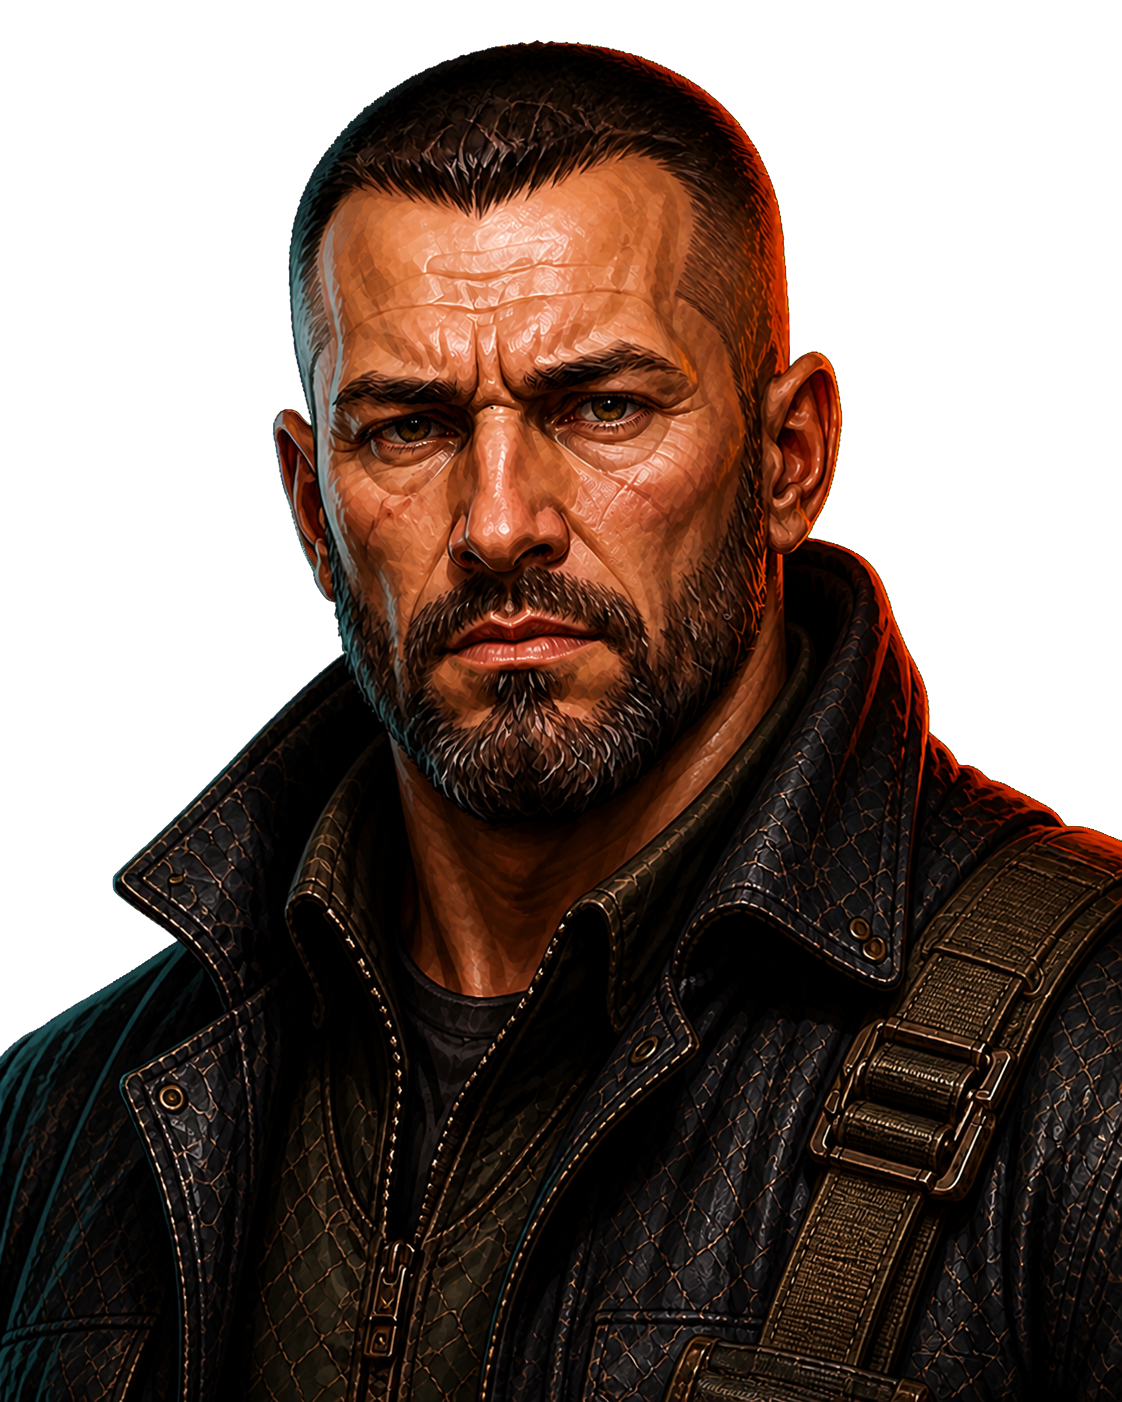
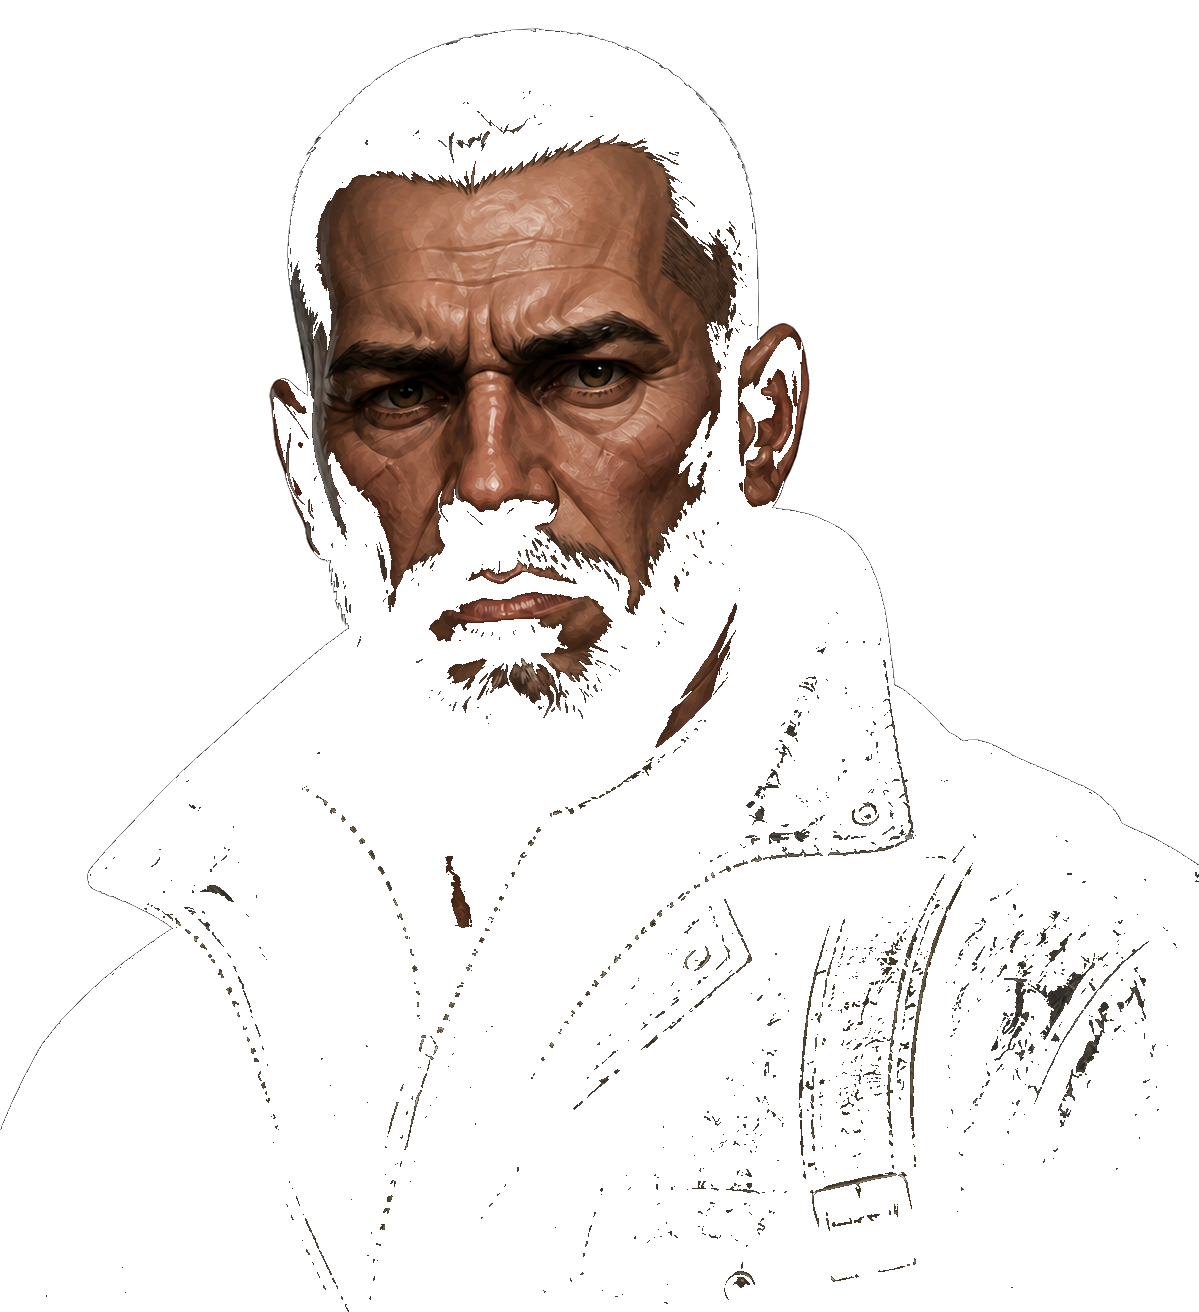
Restore stamp animation and redraw Radan

diff --git a/reference/reference-bridge.js b/reference/reference-bridge.js
@@ -40,6 +40,8 @@
     review: "#c8a25f",
   };
 
+  let stampMotionTimer = null;
+
   function host() {
     try {
       return window.parent !== window ? window.parent.RedStampHost : null;
@@ -53,7 +55,83 @@
   }
 
   function dispatch(action, value) {
-    return host()?.dispatch?.(action, value);
+    const result = host()?.dispatch?.(action, value);
+    if (action === "admit" && result !== false) triggerStampMotion();
+    return result;
+  }
+
+  function ensureStampMotionStyle() {
+    if (document.querySelector("#reference-stamp-motion-style")) return;
+    const style = document.createElement("style");
+    style.id = "reference-stamp-motion-style";
+    style.textContent = `
+      #reference-stamp-motion{position:fixed;inset:0;z-index:90;overflow:hidden;pointer-events:none}
+      #reference-stamp-motion [data-stamp-flash]{position:absolute;inset:0;background:radial-gradient(circle at var(--stamp-x) var(--stamp-y),rgba(223,66,44,.28),rgba(223,66,44,0) 23%);opacity:0}
+      #reference-stamp-motion [data-stamp-paper]{position:absolute;left:var(--stamp-x);top:var(--stamp-y);width:min(300px,44vw);height:min(132px,17vh);border:1px solid rgba(226,190,133,.8);background:linear-gradient(135deg,rgba(247,224,174,.98),rgba(166,126,83,.98));box-shadow:0 16px 32px rgba(0,0,0,.76),inset 0 0 0 4px rgba(109,44,31,.13);color:#5c2b25;opacity:0;transform:translate(-50%,-50%) rotate(-8deg) scale(.52);transform-origin:50% 50%}
+      #reference-stamp-motion [data-stamp-paper]::before{position:absolute;inset:9px;border:1px solid rgba(112,49,37,.42);content:""}
+      #reference-stamp-motion [data-stamp-paper]::after{position:absolute;right:12px;bottom:13px;width:34px;height:34px;border:2px solid rgba(142,31,28,.62);border-radius:50%;content:"V";font:700 21px/30px Georgia,serif;text-align:center;transform:rotate(-12deg)}
+      #reference-stamp-motion [data-stamp-paper-title]{position:absolute;top:18px;left:20px;font:700 12px/1 'IBM Plex Mono',monospace;letter-spacing:.16em}
+      #reference-stamp-motion [data-stamp-paper-lines]{position:absolute;top:45px;left:20px;width:54%;height:28px;background:repeating-linear-gradient(to bottom,rgba(76,47,37,.52) 0 1px,transparent 1px 7px)}
+      #reference-stamp-motion [data-stamp-art]{position:absolute;left:calc(var(--stamp-x) + min(26px,3vw));top:calc(var(--stamp-y) - min(8px,1vh));width:clamp(92px,11vw,148px);height:auto;opacity:0;filter:drop-shadow(0 12px 9px rgba(0,0,0,.74));transform:translate(-50%,-80%) rotate(11deg) scale(.68);transform-origin:50% 92%}
+      #reference-stamp-motion [data-stamp-ink]{position:absolute;left:var(--stamp-x);top:var(--stamp-y);padding:7px 12px;border:3px solid rgba(143,31,28,.78);color:rgba(143,31,28,.78);font:700 clamp(13px,1.6vw,21px)/1 'Staatliches',sans-serif;letter-spacing:.12em;opacity:0;transform:translate(-50%,-50%) rotate(-7deg) scale(.25,.42);filter:blur(.2px)}
+      #reference-stamp-motion.reference-stamp-motion-active [data-stamp-flash]{animation:reference-stamp-flash 900ms ease-out both}
+      #reference-stamp-motion.reference-stamp-motion-active [data-stamp-paper]{animation:reference-stamp-paper 900ms cubic-bezier(.18,.82,.26,1) both}
+      #reference-stamp-motion.reference-stamp-motion-active [data-stamp-art]{animation:reference-stamp-slam 900ms cubic-bezier(.16,.78,.24,1) both}
+      #reference-stamp-motion.reference-stamp-motion-active [data-stamp-ink]{animation:reference-stamp-ink 900ms cubic-bezier(.19,.8,.28,1) both}
+      [data-ref-action="admit"].reference-stamp-action{animation:reference-stamp-button 900ms ease-out both}
+      @keyframes reference-stamp-flash{0%,100%{opacity:0}24%{opacity:1}58%{opacity:.16}}
+      @keyframes reference-stamp-paper{0%{opacity:0;transform:translate(-50%,18%) rotate(-12deg) scale(.52)}22%{opacity:1;transform:translate(-50%,-44%) rotate(-8deg) scale(.82)}44%,100%{opacity:.94;transform:translate(-50%,-50%) rotate(-4deg) scale(1)}}
+      @keyframes reference-stamp-slam{0%{opacity:0;transform:translate(-50%,-145%) rotate(13deg) scale(.68)}18%{opacity:1;transform:translate(-50%,-104%) rotate(9deg) scale(.76)}38%{opacity:1;transform:translate(-50%,-27%) rotate(-3deg) scale(1.02)}48%{opacity:1;transform:translate(-50%,-18%) rotate(-1deg) scale(.94)}60%{opacity:.9;transform:translate(-50%,-25%) rotate(-2deg) scale(.98)}78%{opacity:.34;transform:translate(-50%,-34%) rotate(0) scale(.92)}100%{opacity:0;transform:translate(-50%,-42%) rotate(1deg) scale(.86)}}
+      @keyframes reference-stamp-ink{0%,30%{opacity:0;transform:translate(-50%,-50%) rotate(-7deg) scale(.25,.42)}43%{opacity:.92;transform:translate(-50%,-50%) rotate(-4deg) scale(1.08,.76)}55%{opacity:.82;transform:translate(-50%,-50%) rotate(-5deg) scale(.98,.84)}100%{opacity:0;transform:translate(-50%,-50%) rotate(-4deg) scale(1,.7)}}
+      @keyframes reference-stamp-button{0%,100%{transform:translateY(0);filter:none}38%{transform:translateY(3px);filter:brightness(1.24)}52%{transform:translateY(0);filter:brightness(1.06)} }
+      @media (prefers-reduced-motion:reduce){#reference-stamp-motion [data-stamp-flash]{animation:none;opacity:.32}#reference-stamp-motion [data-stamp-paper]{animation:none;opacity:.94;transform:translate(-50%,-50%) rotate(-4deg) scale(1)}#reference-stamp-motion [data-stamp-art]{animation:none;opacity:.96;transform:translate(-50%,-25%) rotate(-2deg) scale(.96)}#reference-stamp-motion [data-stamp-ink]{animation:none;opacity:.78;transform:translate(-50%,-50%) rotate(-4deg) scale(1,.7)}[data-ref-action="admit"].reference-stamp-action{animation:none;transform:translateY(0);filter:brightness(1.08)}}
+    `;
+    document.head.append(style);
+  }
+
+  function triggerStampMotion() {
+    const action = document.querySelector('[data-ref-action="admit"]');
+    if (!action) return;
+    ensureStampMotionStyle();
+
+    const rect = action.getBoundingClientRect();
+    let motion = document.querySelector("#reference-stamp-motion");
+    if (!motion) {
+      motion = document.createElement("div");
+      motion.id = "reference-stamp-motion";
+      motion.setAttribute("aria-hidden", "true");
+      motion.innerHTML = `
+        <div data-stamp-flash></div>
+        <div data-stamp-paper>
+          <span data-stamp-paper-title>ENTRY AUTHORIZED</span>
+          <span data-stamp-paper-lines></span>
+        </div>
+        <img data-stamp-art alt="">
+        <div data-stamp-ink>ADMITTED</div>`;
+      document.body.append(motion);
+    }
+
+    motion.style.setProperty("--stamp-x", `${Math.round(rect.left + rect.width * 0.72)}px`);
+    motion.style.setProperty("--stamp-y", `${Math.round(rect.top + rect.height * 0.5)}px`);
+    const stampArt = motion.querySelector("[data-stamp-art]");
+    if (stampArt) {
+      stampArt.src = window.matchMedia?.("(max-width: 700px)").matches
+        ? "assets/23c7730c-fd90-4c8a-86bb-695cb8503df6.webp"
+        : "assets/779ea657-4ce2-498c-a617-9f5eaa498dc3.webp";
+    }
+
+    action.classList.remove("reference-stamp-action");
+    motion.classList.remove("reference-stamp-motion-active");
+    void action.offsetWidth;
+    void motion.offsetWidth;
+    action.classList.add("reference-stamp-action");
+    motion.classList.add("reference-stamp-motion-active");
+    if (stampMotionTimer) window.clearTimeout(stampMotionTimer);
+    stampMotionTimer = window.setTimeout(() => {
+      action.classList.remove("reference-stamp-action");
+      motion.remove();
+      stampMotionTimer = null;
+    }, 980);
   }
 
   function slots(name) {

diff --git a/reference/desktop.html b/reference/desktop.html
@@ -622,15 +622,15 @@ a{color:#c8a25f;text-decoration:none}a:hover{color:#e4c58c}
         <div data-ref-action="admit" style="position:relative;overflow:hidden;border:2px solid #8e1f1c;background:linear-gradient(#7d1f19,#480e0b);display:grid;place-items:center;box-shadow:inset 0 2px 0 rgba(255,190,170,.3),0 5px 0 #290a08;cursor:pointer" style-hover="background:linear-gradient(#9c2620,#5c1512)" style-active="transform:translateY(4px);box-shadow:inset 0 2px 0 rgba(255,190,170,.2),0 1px 0 #290a08">
           <img src="assets/779ea657-4ce2-498c-a617-9f5eaa498dc3.webp" alt="" style="position:absolute;right:-18px;bottom:-22px;height:140%;opacity:.3">
           <div style="position:relative;text-align:center">
-            <div data-ref-action="admit" style="font-family:'Staatliches',sans-serif;font-size:42px;letter-spacing:.1em;color:#f4dfc9;line-height:.95">STAMP</div>
+            <div data-ref-action="admit" style="font-family:'Staatliches',sans-serif;font-size:42px;letter-spacing:.1em;color:#f4dfc9;line-height:.95">RED<br>STAMP</div>
             <div style="font-size:10px;font-weight:600;letter-spacing:.3em;color:#e0b8a6">ADMIT ENTRY</div>
           </div>
         </div>
         <div data-ref-action="secondary" style="border:1px solid #4a3a2c;background:linear-gradient(#241c16,#100c0a);display:grid;place-items:center;text-align:center;box-shadow:inset 0 1px 0 #5c4938,0 5px 0 #0a0806;cursor:pointer" style-hover="border-color:#8a7458">
-          <div><div data-ref-action="secondary" style="font-family:'Staatliches',sans-serif;font-size:24px;letter-spacing:.08em;color:#d2c3a0;line-height:1">SECOND<br>INSPECT</div><div style="font-size:10px;letter-spacing:.22em;color:#8a7458;margin-top:5px">HOLD</div></div>
+          <div><div data-ref-action="secondary" style="font-family:'Staatliches',sans-serif;font-size:24px;letter-spacing:.08em;color:#d2c3a0;line-height:1">SECONDARY<br>INSPECTION</div><div style="font-size:10px;letter-spacing:.22em;color:#8a7458;margin-top:5px">HOLD</div></div>
         </div>
         <div data-ref-action="deny" style="border:1px solid #4a3a2c;background:linear-gradient(#241c16,#100c0a);display:grid;place-items:center;text-align:center;box-shadow:inset 0 1px 0 #5c4938,0 5px 0 #0a0806;cursor:pointer" style-hover="border-color:#8a7458">
-          <div><div data-ref-action="deny" style="font-family:'Staatliches',sans-serif;font-size:24px;letter-spacing:.08em;color:#d2c3a0;line-height:1">REFUSE<br>ENTRY</div><div style="font-size:10px;letter-spacing:.22em;color:#8a7458;margin-top:5px">TURN BACK</div></div>
+          <div><div data-ref-action="deny" style="font-family:'Staatliches',sans-serif;font-size:24px;letter-spacing:.08em;color:#d2c3a0;line-height:1">DENY<br>ENTRY</div><div style="font-size:10px;letter-spacing:.22em;color:#8a7458;margin-top:5px">TURN BACK</div></div>
         </div>
       </div>
     </div>

diff --git a/reference/mobile.html b/reference/mobile.html
@@ -442,15 +442,15 @@ div{scrollbar-width:none}div::-webkit-scrollbar{display:none}
     <div data-ref-action="admit" style="position:relative;overflow:hidden;border:2px solid #8e1f1c;background:linear-gradient(#7d1f19,#480e0b);display:flex;align-items:center;gap:6px;padding:0 8px;box-shadow:inset 0 2px 0 rgba(255,190,170,.28),0 3px 0 #290a08;cursor:pointer" style-active="transform:translateY(2px)">
       <img src="assets/23c7730c-fd90-4c8a-86bb-695cb8503df6.webp" alt="" style="width:34px;height:40px;object-fit:contain;filter:drop-shadow(0 4px 8px rgba(0,0,0,.7))">
       <div>
-        <div data-ref-action="admit" style="font-family:'Staatliches',sans-serif;font-size:20px;letter-spacing:.06em;color:#f4dfc9;line-height:1">STAMP</div>
+        <div data-ref-action="admit" style="font-family:'Staatliches',sans-serif;font-size:20px;letter-spacing:.06em;color:#f4dfc9;line-height:1">RED<br>STAMP</div>
         <div style="font-size:8px;font-weight:600;letter-spacing:.2em;color:#e0b8a6">ADMIT ENTRY</div>
       </div>
     </div>
     <div style="border:1px solid #4a3a2c;background:linear-gradient(#241c16,#100c0a);display:grid;place-items:center;text-align:center;box-shadow:inset 0 1px 0 #5c4938,0 3px 0 #0a0806;cursor:pointer">
-      <div data-ref-action="secondary" style="font-family:'Staatliches',sans-serif;font-size:14px;letter-spacing:.05em;color:#d2c3a0;line-height:1.05">SECOND<br>INSPECT</div>
+      <div data-ref-action="secondary" style="font-family:'Staatliches',sans-serif;font-size:14px;letter-spacing:.05em;color:#d2c3a0;line-height:1.05">SECONDARY<br>INSPECTION</div>
     </div>
     <div style="border:1px solid #4a3a2c;background:linear-gradient(#241c16,#100c0a);display:grid;place-items:center;text-align:center;box-shadow:inset 0 1px 0 #5c4938,0 3px 0 #0a0806;cursor:pointer">
-      <div data-ref-action="deny" style="font-family:'Staatliches',sans-serif;font-size:14px;letter-spacing:.05em;color:#d2c3a0;line-height:1.05">REFUSE<br>ENTRY</div>
+      <div data-ref-action="deny" style="font-family:'Staatliches',sans-serif;font-size:14px;letter-spacing:.05em;color:#d2c3a0;line-height:1.05">DENY<br>ENTRY</div>
     </div>
   </div>
 

diff --git a/app.js b/app.js
@@ -2224,8 +2224,10 @@ const VISITOR_ART = {
 };
 
 // Every named visitor gets an explicit art entry. New character renders use
-// Mara's corrected cutout as the shared style anchor, while each character
-// keeps separate scene, full-body, and document-face assets.
+// the main inspector/Mara rendering as the shared style anchor, while each
+// character keeps separate scene, full-body, and document-face assets. A
+// redraw replaces that complete family together; changing only one view is
+// how a visitor slips back into a different illustration style.
 const CHARACTER_ART = {
   "mara-velen": {
     scene: "assets/generated/mara-visitor-scene.png",

diff --git a/docs/character-asset-checklist.md b/docs/character-asset-checklist.md
@@ -38,7 +38,7 @@ being generated.
 
 ## Character generation pipeline
 
-Mara Velen is the canonical style anchor for every named visitor. Every image
+Mara Velen and the main inspector cutout are the canonical style anchor for every named visitor. Every image
 generation request must include a reference image: use the matching Mara asset
 for the asset being generated—`mara-visitor.png` for a full-body render,
 `mara-visitor-scene.png` for a checkpoint cutout, `mara-face.png` for a
@@ -62,6 +62,13 @@ family—not only the asset where the mismatch was first noticed. Irena Sava,
 Radan Kest, Nadiya Ost, and Olya Merin have been brought through this stricter
 style-lock pass; the regenerated Mara family is now the sharpness anchor for
 future batches.
+
+Radan Kest’s redraw is the reference implementation of that rule: his scene,
+full-body, and face assets were regenerated as one family against the main
+inspector/Mara rendering, while retaining his cropped hair, beard, stocky build,
+and security-team role. His matte charcoal field clothing replaces the older
+glossier tactical treatment. Future redraws should follow the same order and
+must not leave one old-style view registered beside two new ones.
 
 Use this order for every new named visitor:
 
